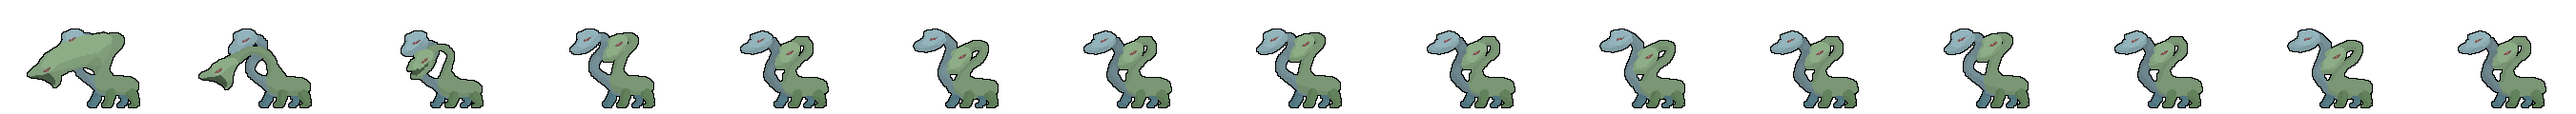
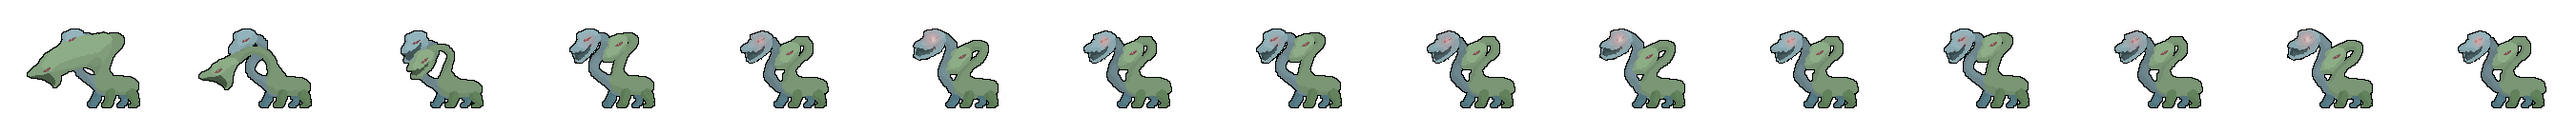
Four hours left!

diff --git a/Game.py b/Game.py
@@ -3,6 +3,7 @@ import math
 from Constants import *
 from Spritesheet import *
 from Enemy import *
+from copy import copy
 
 class Player():
     def __init__(self):
@@ -48,7 +49,8 @@ class Game():
         self.ATK_KEY = pygame.K_d
         self.CHARGE_KEY = pygame.K_a
 
-        self.enemy_list = self.generate_enemies()
+        self.enemy_list_source = self.generate_enemies()
+        self.enemy_list = copy(self.enemy_list_source)
 
         pygame.mixer.music.load(os.path.join('LD39.wav'))
         pygame.mixer.music.play(-1)
@@ -58,7 +60,7 @@ class Game():
         dif_from_beat_pos = 0
         has_pressed_button = True
         time_of_press = 0
-        self.time_ms = 550
+        self.time_ms = 0
         while is_running and len(self.enemy_list):
             self.time += 1
             current_enemy = self.enemy_list[0]
@@ -96,8 +98,18 @@ class Game():
             else:
                 jump_offset = 0
             if dif_from_beat_pos >= self.press_tolerance and last_dif < self.press_tolerance:
+                if self.player.power == 0:
+                    self.enemy_list = copy(self.enemy_list_source)
+                    for enemy in self.enemy_list:
+                        enemy.health = enemy.max_health
+                        if enemy.name == "Purple fist man":
+                            enemy.state = 4
+                        else:
+                            enemy.state = 0
+                    self.disp.make_blip("Puff of smoke", (current_enemy.pos[0] + 200, current_enemy.pos[1]), 10)
+                    self.player.power = self.player.max_power
+
                 current_enemy.attack()
-                self.player.power = max(self.player.power - 5, 0)
                 if not has_pressed_button:
                     self.player.state = STATE_IDLE
                     self.player.anim = STATE_IDLE
@@ -127,15 +139,23 @@ class Game():
                     self.failed_gun_sound.play()
                 self.player.anim = self.player.state
                 has_pressed_button = False
+                if current_enemy.name == "Empty":
+                    current_enemy.health = max(0, current_enemy.health - 250)
 
             if current_enemy.health == 0:
                 self.enemy_list.remove(current_enemy)
-                self.player.power = self.player.max_power
+                if current_enemy.name == "Empty":
+                    self.player.power = self.player.max_power
+                else:
+                    self.enemy_defeat_sound.play()
                 self.disp.make_blip("Recharge", (self.player.pos[0] + 140, self.player.pos[1] + 40), 7)
-                self.disp.make_blip("Next opponent", (self.player.pos[0] - 20, self.player.pos[1] - 160), 7)
-                self.enemy_defeat_sound.play()
+                #self.disp.make_blip("Next opponent", (self.player.pos[0] - 20, self.player.pos[1] - 160), 7)
+                if current_enemy.name != "Frederick":
+                    self.disp.make_blip("Puff of smoke", (current_enemy.pos[0] + 200, current_enemy.pos[1]), 10)
+                else:
+                    self.disp.make_blip("Puff of smoke", (current_enemy.pos[0] - 120, current_enemy.pos[1] - 150), 10)
 
-            self.disp.render_instructions(current_enemy)
+            self.disp.render_instructions(self.enemy_list)
             self.disp.render_enemy_hp(current_enemy.health/current_enemy.max_health, current_enemy)
             self.disp.tic_enemy(current_enemy, current_enemy.pos, not self.is_time_for_next_frame())
             self.disp.render_energy_bar(self.player.power/self.player.max_power)
@@ -198,15 +218,31 @@ class Game():
                                 Sprite("PurpleFistmanBotAtk.png", (180, 120), 16, self.disp.screen, self.player, 400, is_enemy = True),
                                 Sprite("PurpleFistmanIdle.png", (180, 120), 4, self.disp.screen, self.player, 400, is_enemy = True)]
         HYDRA_SPRITE_SEQ = [Sprite("HydraIdle.png", (180, 120), 4, self.disp.screen, self.player, 400, is_enemy = True),
+                            Sprite("HydraIdle.png", (180, 120), 4, self.disp.screen, self.player, 400, is_enemy = True),
                             Sprite("HydraTopPrep.png", (180, 120), 4, self.disp.screen, self.player, 400, is_enemy = True),
-                            Sprite("HydraTopAtk.png", (180, 120), 15, self.disp.screen, self.player, 400, is_enemy = True)]
+                            Sprite("HydraTopAtkSimple.png", (180, 120), 16, self.disp.screen, self.player, 400, is_enemy = True)]
+        PURPLE_HYDRA_SPRITE_SEQ = [Sprite("PurpHydraIdle.png", (180, 120), 4, self.disp.screen, self.player, 400, is_enemy = True),
+                                Sprite("PurpHydraTopPrep.png", (180, 120), 4, self.disp.screen, self.player, 400, is_enemy = True),
+                                Sprite("PurpHydraTopAtk.png", (180, 120), 15, self.disp.screen, self.player, 400, is_enemy = True),
+                                Sprite("PurpHydraAltTopAtk.png", (180, 120), 16, self.disp.screen, self.player, 400, is_enemy = True),
+                                Sprite("PurpHydraTopPrep.png", (180, 120), 4, self.disp.screen, self.player, 400, is_enemy = True),
+                                Sprite("PurpHydraTopAtk.png", (180, 120), 15, self.disp.screen, self.player, 400, is_enemy = True),
+                                Sprite("PurpHydraAltTopAtkPrep.png", (180, 120), 16, self.disp.screen, self.player, 400, is_enemy = True),
+                                Sprite("PurpHydraTopAtkSimple.png", (180, 120), 15, self.disp.screen, self.player, 400, is_enemy = True)]
+        EMPTY_SPRITE_SEQ = [Sprite("EmptySprite.png", (180, 120), 1, self.disp.screen, self.player, 400, is_enemy = True)]
         enemy_list.append(Enemy("Frederick", FREDERICK_SEQ,
             FREDERICK_SPRITE_SEQ, (860, 450), 100, 300.0))
+        enemy_list.append(Enemy("Empty", EMPTY_SEQ, EMPTY_SPRITE_SEQ, (460, 250), 0, 1000.0))
         enemy_list.append(Enemy("Hydra", HYDRA_SEQ, HYDRA_SPRITE_SEQ, (520, 258), 60, 500.0))
+        enemy_list.append(Enemy("Empty", EMPTY_SEQ, EMPTY_SPRITE_SEQ, (460, 250), 0, 1000.0))
         enemy_list.append(Enemy("Fist man", FIST_MAN_SEQ,
-            FIST_MAN_SPRITE_SEQ, (460, 250), 100, 500.0))
+            FIST_MAN_SPRITE_SEQ, (460, 250), 80, 500.0))
+        enemy_list.append(Enemy("Empty", EMPTY_SEQ, EMPTY_SPRITE_SEQ, (460, 250), 0, 1000.0))
+        enemy_list.append(Enemy("Purple hydra", PURPLE_HYDRA_SEQ, PURPLE_HYDRA_SPRITE_SEQ, (520, 258), 100, 500.0))
+        enemy_list.append(Enemy("Empty", EMPTY_SEQ, EMPTY_SPRITE_SEQ, (460, 250), 0, 1000.0))
         enemy_list.append(Enemy("Purple fist man", PURPLE_FIST_MAN_SEQ,
             PURPLE_FIST_MAN_SPRITE_SEQ, (460, 250), 100, 800.0))
+        enemy_list.append(Enemy("Empty", EMPTY_SEQ, EMPTY_SPRITE_SEQ, (460, 250), 0, 1000.0))
         return enemy_list
 
 class Display():
@@ -238,6 +274,7 @@ class Display():
         self.recharge_blip = Sprite('+Energy.png', (160, 60), 7, self.screen, self.player, 75)
         self.damage_blip = Sprite('-100HP.png', (120, 60), 7, self.screen, self.player, 75)
         self.next_opponent_blip = Sprite('NextOpponent.png', (120, 60), 7, self.screen, self.player, 125)
+        self.puff_of_smoke_blip = Sprite('PuffOfSmoke.png', (120, 120), 10, self.screen, self.player, 400)
 
 
         self.energy_bar = pygame.image.load(os.path.join('EnergyBar.png')).convert_alpha()
@@ -273,7 +310,8 @@ class Display():
                         "Dodged": self.dodged_blip,
                         "Recharge": self.recharge_blip,
                         "Damage": self.damage_blip,
-                        "Next opponent": self.next_opponent_blip}
+                        "Next opponent": self.next_opponent_blip,
+                        "Puff of smoke": self.puff_of_smoke_blip}
 
     def render_energy_bar(self, energy_percent):
         dif = energy_percent - self.vis_energy_percent
@@ -292,15 +330,20 @@ class Display():
         surface = pygame.transform.scale(surface, (36, 96))
         self.screen.blit(surface, pos)
 
-    def render_instructions(self, current_enemy):
+    def render_instructions(self, enemy_list):
         pos = (280, 47)
-        if current_enemy.name == "Frederick":
+        curr_enemy = enemy_list[0]
+        if len(enemy_list) > 1:
+            next_enemy = enemy_list[1]
+        else:
+            next_enemy = cur_enemy
+        if "Frederick" in (curr_enemy.name, next_enemy.name):
             self.screen.blit(self.instructions_box, pos)
             self.screen.blit(self.instructions_1, pos)
-        elif current_enemy.name == "Hydra":
+        elif "Hydra" in (curr_enemy.name, next_enemy.name):
             self.screen.blit(self.instructions_box, pos)
             self.screen.blit(self.instructions_2, pos)
-        elif current_enemy.name == "Fist man":
+        elif "Fist man" in (curr_enemy.name, next_enemy.name):
             self.screen.blit(self.instructions_box, pos)
             self.screen.blit(self.instructions_3, pos)
 
@@ -324,7 +367,8 @@ class Display():
         surface.blit(self.energy_meter, (0, 0))
         surface.blit(bar_surface, (3, 3 + (18 - int(18.0 * self.vis_hp_percent))))
         surface = pygame.transform.scale(surface, (36, 96))
-        self.screen.blit(surface, pos)
+        if enemy.name != "Empty":
+            self.screen.blit(surface, pos)
 
     def render_blips(self, halt):
         for blip in self.blips:

diff --git a/Constants.py b/Constants.py
@@ -23,6 +23,8 @@ FIST_MAN_SEQ = [ENM_IDLE,
                 ENM_BOT_PREP,
                 ENM_BOT_ATK]
 
+
+
 PURPLE_FIST_MAN_SEQ = [ENM_TOP_PREP,
                         ENM_TOP_ATK,
                         ENM_BOT_PREP,
@@ -33,8 +35,20 @@ PURPLE_FIST_MAN_SEQ = [ENM_TOP_PREP,
                         ENM_IDLE]
 
 HYDRA_SEQ = [ENM_IDLE,
+            ENM_IDLE,
             ENM_TOP_PREP,
             ENM_TOP_ATK]
+
+PURPLE_HYDRA_SEQ = [ENM_IDLE,
+                    ENM_TOP_PREP,
+                    ENM_TOP_ATK,
+                    ENM_TOP_ATK,
+                    ENM_TOP_PREP,
+                    ENM_TOP_ATK,
+                    ENM_TOP_ATK,
+                    ENM_TOP_ATK]
+
+EMPTY_SEQ = [ENM_IDLE]
 
 FREDERICK_SEQ = [ENM_IDLE]
 

diff --git a/Enemy.py b/Enemy.py
@@ -6,6 +6,8 @@ class Enemy():
         self.attack_sequence = attack_sequence
         self.sprite_sequence = sprite_sequence
         self.state = 0
+        if self.name == "Purple fist man":
+            self.state = 4
         self.invulnerable = False
         self.pos = pos
         self.damage = damage
